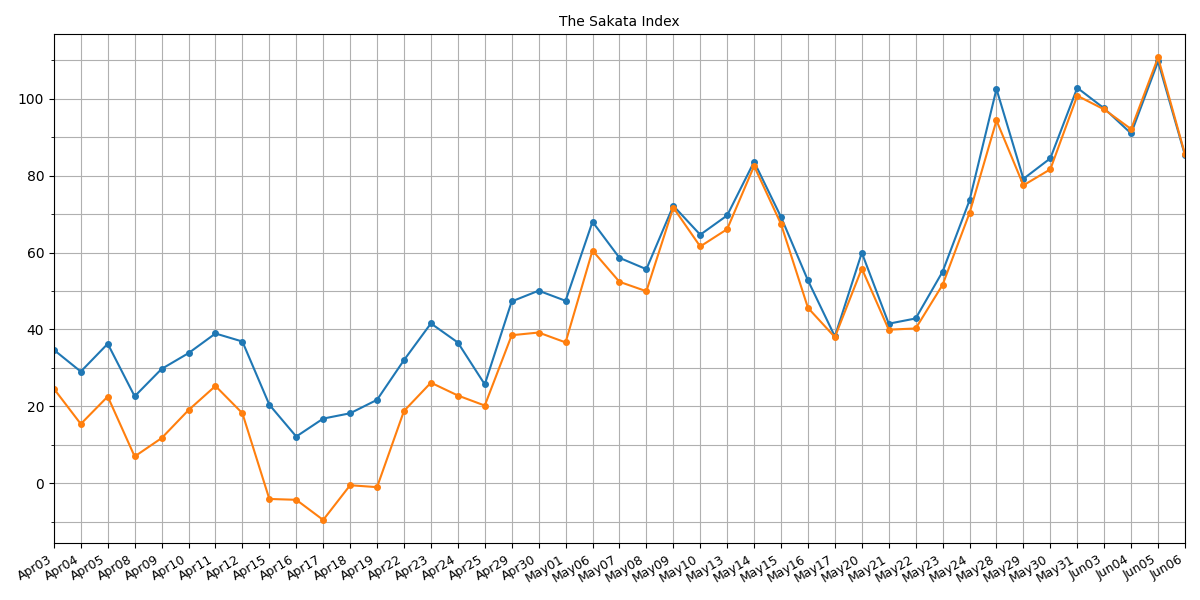
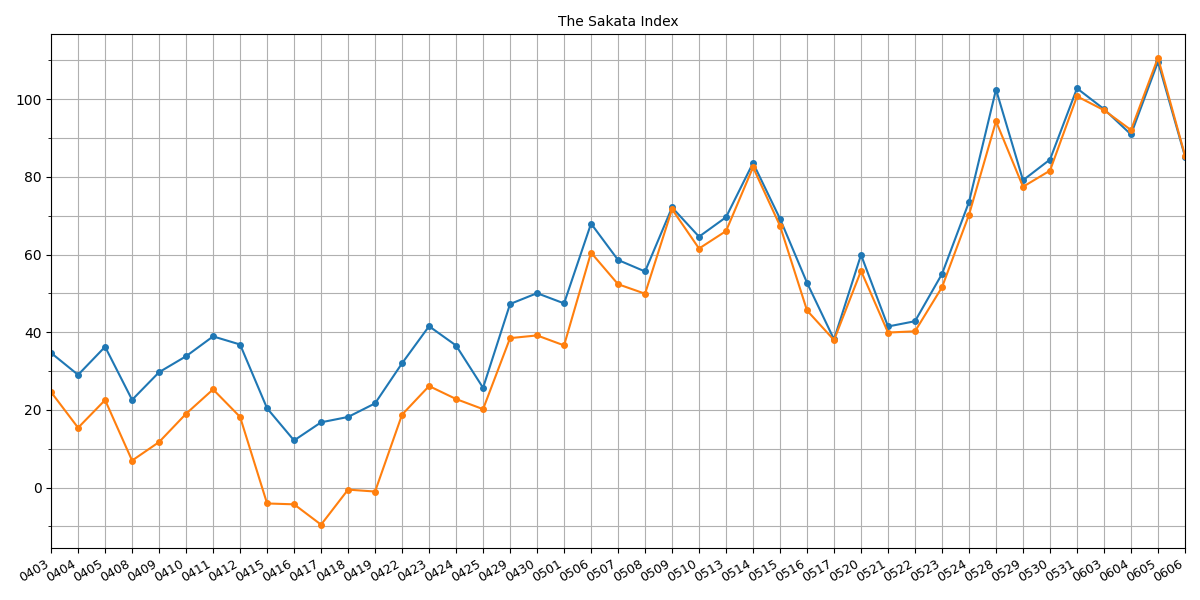
.

Changed region(s): [[0.0, 0.03, 0.9867, 0.99], [0.8942, 0.18, 0.9867, 0.24], [0.8942, 0.15, 0.925, 0.18]]

diff --git a/util/plot-single.py b/util/plot-single.py
@@ -56,7 +56,7 @@ ax.plot(arrInt, norm_values, marker="o", markersize=4)
 # X軸のラベルをインデックスに設定
 ax.set_xticks(arrInt)
 # インデックスをstring日付に置き換える
-ax.set_xticklabels([date.strftime("%b%d") for date in lstDt], rotation=45, ha="right")
+ax.set_xticklabels([date.strftime("%m%d") for date in lstDt], rotation=45, ha="right")
 # X軸の範囲を調整
 ax.set_xlim([0, len(lstDt) - 1])
 

diff --git a/util/plot-multi.py b/util/plot-multi.py
@@ -47,7 +47,7 @@ for norm_values in norm_values_list:
 # X軸のラベルをインデックスに設定
 ax.set_xticks(arrInt)
 # インデックスをstring日付に置き換える
-ax.set_xticklabels([date.strftime("%b%d") for date in lstDt])
+ax.set_xticklabels([date.strftime("%m%d") for date in lstDt])
 # X軸の範囲を調整
 ax.set_xlim([0, len(lstDt) - 1])
 
